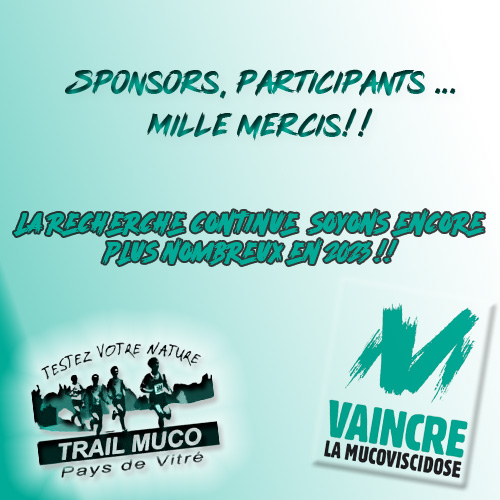
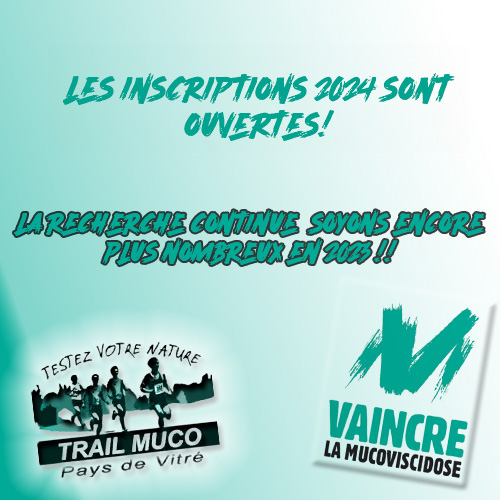
update 2024

Changed region(s): [[0.12, 0.12, 0.93, 0.3]]

diff --git a/src/pages/Program.js b/src/pages/Program.js
@@ -12,11 +12,11 @@ const Program = () => {
             </div>
             <div className="first-container header-program">
                 {/* en attente de maj */}
-                <div className="update">
+                {/* <div className="update">
                 <h2>Attention, il s'agit de l'édition 2023.</h2>
                 <p>Les données ci-dessous ne sont pas actualisées pour 2024</p>
-                </div>                
-                <h3> Vendredi 6 octobre 2023 </h3>
+                </div>                 */}
+                <h3> Vendredi 4 octobre 2024 (soir)</h3>
 
                 <section className="container-section program nocturne">
                     <div className="children-left">
@@ -27,7 +27,7 @@ const Program = () => {
                         />
                     </div>
                     <div className="children-right">
-                        <h2>Les Cap'Tambule</h2>
+                        <h2>Les Cap'Tambules</h2>
                         <strong>
                             Départ centre bourg de La Chapelle Erbrée.
                         </strong>
@@ -75,7 +75,7 @@ const Program = () => {
                     </div>
                 </section>
 
-                <h3> Samedi 7 octobre 2023 </h3>
+                <h3> Samedi 5 octobre 2024 </h3>
 
                 <section className="container-section program">
                     <div
@@ -163,21 +163,21 @@ const Program = () => {
                         <em>Premier départ à partir de 10h45.</em>
                         <ul>
                             <li className="custom-li">
-                                800m (enfants nés de 2014 et +)
+                                800m (enfants nés de 2015 et +)
                                 <br />
                                 <i className="fa-solid fa-flag-checkered first"></i>{' '}
                                 Départ à 10h45{' '}
                                 <i className="fa-solid fa-flag-checkered last"></i>
                             </li>
                             <li className="custom-li">
-                                2000m (enfants nés de 2013 et avant)
+                                2000m (enfants nés de 2014 et avant)
                                 <br />
                                 <i className="fa-solid fa-flag-checkered first "></i>{' '}
                                 Départ à 11h00{' '}
                                 <i className="fa-solid fa-flag-checkered last "></i>
                             </li>
                             <li className="custom-li">
-                                3000m (enfants nés en 2011 et avant)
+                                3000m (enfants nés en 2012 et avant)
                                 <br />
                                 <i className="fa-solid fa-flag-checkered first"></i>{' '}
                                 Départ à 11h15{' '}
@@ -245,7 +245,7 @@ const Program = () => {
                                 </a>
                             </li>
                             <li className="custom-li">
-                                22km (12 €)
+                                La Groupama 22km (12 €)
                                 <br />
                                 <i className="fa-solid fa-flag-checkered first"></i>{' '}
                                 Départ à 14h00{' '}
@@ -261,7 +261,7 @@ const Program = () => {
                                 </a>
                             </li>
                             <li className="custom-li">
-                                La Pigeon-Trail 10km (12€)
+                                La Pigeon 10km (12€)
                                 <br />
                                 <i className="fa-solid fa-flag-checkered first"></i>{' '}
                                 Départ à 15h00{' '}
@@ -313,14 +313,14 @@ const Program = () => {
 
                         <ul className="nocturne-list">
                             <li className="custom-li">
-                                12km - L'OTSI (6€)
+                                12km - La Vitrée Accueil (6€)
                                 <br />
                                 <i className="fa-solid fa-flag-checkered first"></i>{' '}
                                 Départ: 13h35{' '}
                                 <i className="fa-solid fa-flag-checkered last"></i>
                             </li>
                             <li className="custom-li">
-                                9km - La Vitré Accueil (6€) <br />
+                                9km - L' OTSI (6€) <br />
                                 <i className="fa-solid fa-flag-checkered first"></i>{' '}
                                 Départ: 14h15{' '}
                                 <i className="fa-solid fa-flag-checkered last"></i>
@@ -337,7 +337,7 @@ const Program = () => {
                         <em>* Inscriptions uniquement sur place.</em>
                     </div>
                 </section>
-                <section className="container-section program">
+                <section className="container-section program end">
                     <div
                         className="children-left"
                         data-aos="fade-right"
@@ -365,11 +365,11 @@ const Program = () => {
                                 34km (18€)
                                 <br />
                                 <i className="fa-solid fa-flag-checkered first"></i>{' '}
-                                Vendredi 6 octobre à 20h (Cap'Tambule).
+                                Vendredi 4 octobre à 20h00 (Cap'Tambule).
                                 <i className="fa-solid fa-flag-checkered last"></i>
                                 <br />
                                 <i className="fa-solid fa-flag-checkered first"></i>{' '}
-                                Samedi 7 octobre à 14h (Trail 22km)
+                                Samedi 5 octobre à 14h00 (La Groupama 22km)
                                 <i className="fa-solid fa-flag-checkered last"></i>
                             </li>
                         </ul>
@@ -387,7 +387,7 @@ const Program = () => {
                         </div>
                     </div>
                 </section>
-                <section className="container-section program end">
+                {/* <section className="container-section program end">
                     <div
                         className="children-left"
                         data-aos="fade-right"
@@ -436,7 +436,7 @@ const Program = () => {
                         </a>
                         <em>* Chèque à l'ordre de VLM Virade de Vitré.</em>
                     </div>
-                </section>
+                </section> */}
             </div>
             <Footer />
             <Sponsors />

diff --git a/src/pages/Inscriptions.js b/src/pages/Inscriptions.js
@@ -13,21 +13,17 @@ const Inscriptions = () => {
                 <div className="container-section-inscription">
                     <div className="why-trail-left inscription">
                         <h3 className="">
-                            Les inscriptions sont actuellement fermées.
+                            Les inscriptions sont actuellement ouvertes!
                         </h3>
-                        <p>
-                            La date d'ouverture de celles-ci n'est pas encore
-                            connue.
-                        </p>
                         <div className="inscription-bloc">
-                            {/* <div className="containers-inscription">
+                            <div className="containers-inscription">
                                 <h4>Via Internet:</h4>
                                 <p>
                                     Cliquez sur le logo de notre partenaire
                                     Klikego ci-dessous:
                                 </p>
                                 <a
-                                    href="https://www.klikego.com/inscription/trail-muco-pays-de-vitre-17eme-edition-base-de-loisir-de-haute-vilaine-st-mherve--la-chapelle-erbree-2023/running-marche-nordique/1432099242027-8"
+                                    href="https://www.klikego.com/inscription/trail-muco-pays-de-vitre-18eme-edition-base-de-loisir-de-haute-vilaine-st-mherve--la-chapelle-erbree-2024/running-marche-nordique/1432099242027-9"
                                     target="_blank"
                                     rel="noopener noreferrer"
                                 >
@@ -40,8 +36,8 @@ const Inscriptions = () => {
                                     * Attention, l'inscription nécessite la
                                     création d'un compte sur Klikego.{' '}
                                 </em>
-                            </div> */}
-                            {/* <div className="inscription-bloc">
+                            </div>
+                            <div className="inscription-bloc">
                                 <div className="containers-inscription">
                                     <h4>Sur place:</h4>
                                     <p className="text">
@@ -50,7 +46,6 @@ const Inscriptions = () => {
                                         mais déconseillées.
                                     </p>
                                     <p className="majoration">
-                                        
                                         Celles-ci entrainent une majoration de
                                         2€ supplémentaires.
                                     </p>
@@ -63,7 +58,7 @@ const Inscriptions = () => {
                                 <br />
                                 Par conséquent, uniquement pour ces courses,
                                 aucune majoration ne sera appliquée.
-                            </em> */}
+                            </em>
                         </div>
                     </div>
                 </div>

diff --git a/src/style/components/_numbers.scss b/src/style/components/_numbers.scss
@@ -8,7 +8,7 @@
     background: rgba(161, 232, 209, 0.289);
     padding: 4% 5%;
     border-radius: 30px;
-    position: relative;   
+    position: relative;
 
     .in-number-left,
     .in-number-center,
@@ -23,7 +23,7 @@
             color: rgba(128, 128, 128, 0.461);
         }
 
-        span{
+        span {
             font-family: $font-1;
             font-size: 3rem;
             font-weight: bolder;
@@ -67,7 +67,6 @@
 
 @media screen and (max-width: 1000px) {
     .in-numbers-container {
-        
         .in-number-left,
         .in-number-center,
         .in-number-right {

diff --git a/src/style/pages/_inscriptions.scss b/src/style/pages/_inscriptions.scss
@@ -2,7 +2,7 @@
     display: flex;
     gap: 10px;
     width: 70%;
-    margin: 10% auto;
+    margin: 5% auto;
     color: white;
     border-radius: 5px;
     font-family: $font-1;
@@ -17,7 +17,7 @@
         min-width: 100%;
         letter-spacing: 2px;
         //Pour inscription fermées à enlever après
-        animation: animWarning 4s ease-in-out infinite;
+        //animation: animWarning 4s ease-in-out infinite;
 
         p {
             font-size: 1.5rem;

diff --git a/src/components/Footer.js b/src/components/Footer.js
@@ -18,7 +18,7 @@ const Footer = () => {
                         Delpierre Fabien
                     </a>
                 </p>
-                <p>Dernière mise à jour: le 06/02/2024</p>
+                <p>Dernière mise à jour: le 02/05/2024</p>
             </div>
         </div>
     );

diff --git a/src/components/Numbers.js b/src/components/Numbers.js
@@ -44,8 +44,7 @@ function Numbers() {
                     ></CountUp>
                 ) : (
                     <span>18</span>
-                )}
-
+                )}                
                 <p>édition</p>
             </div>
             <div className="in-number-center">
